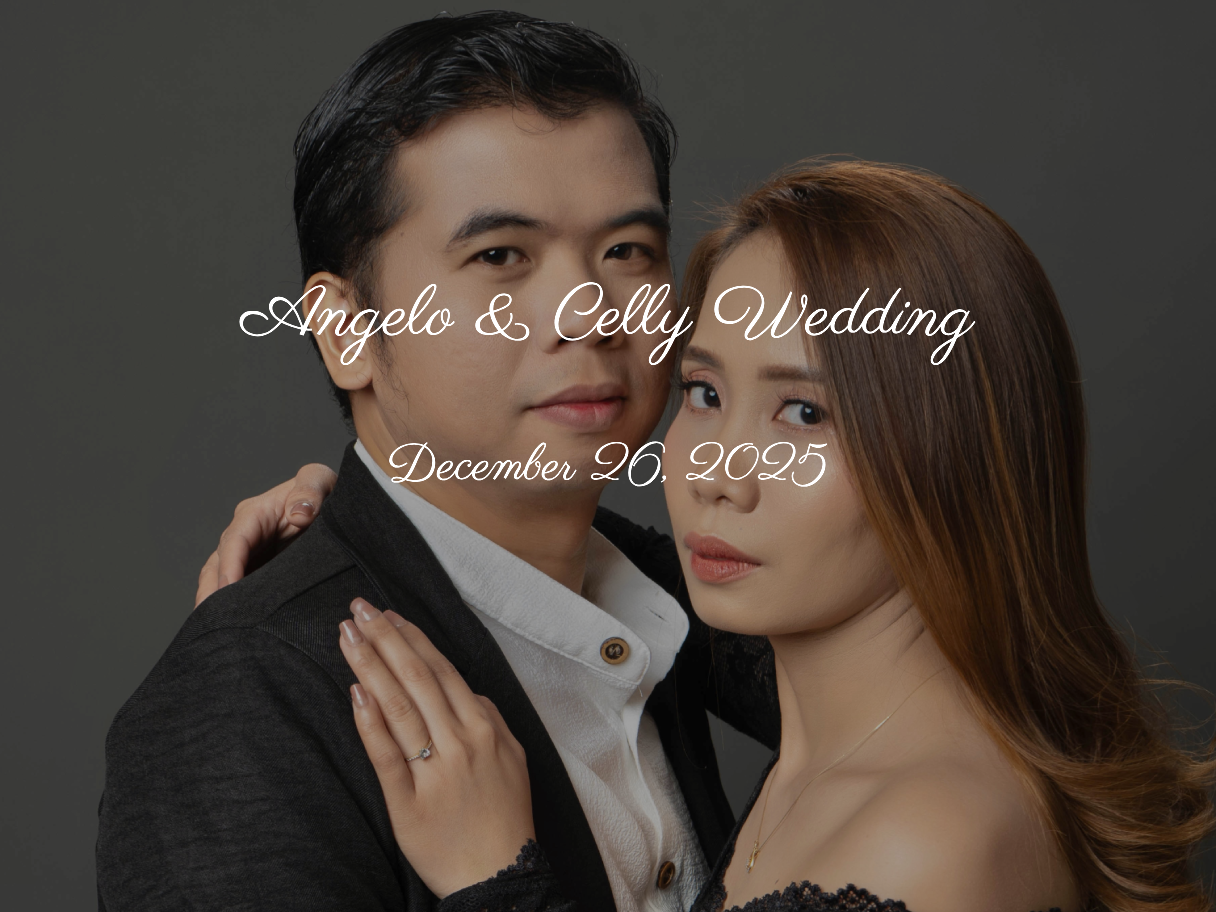
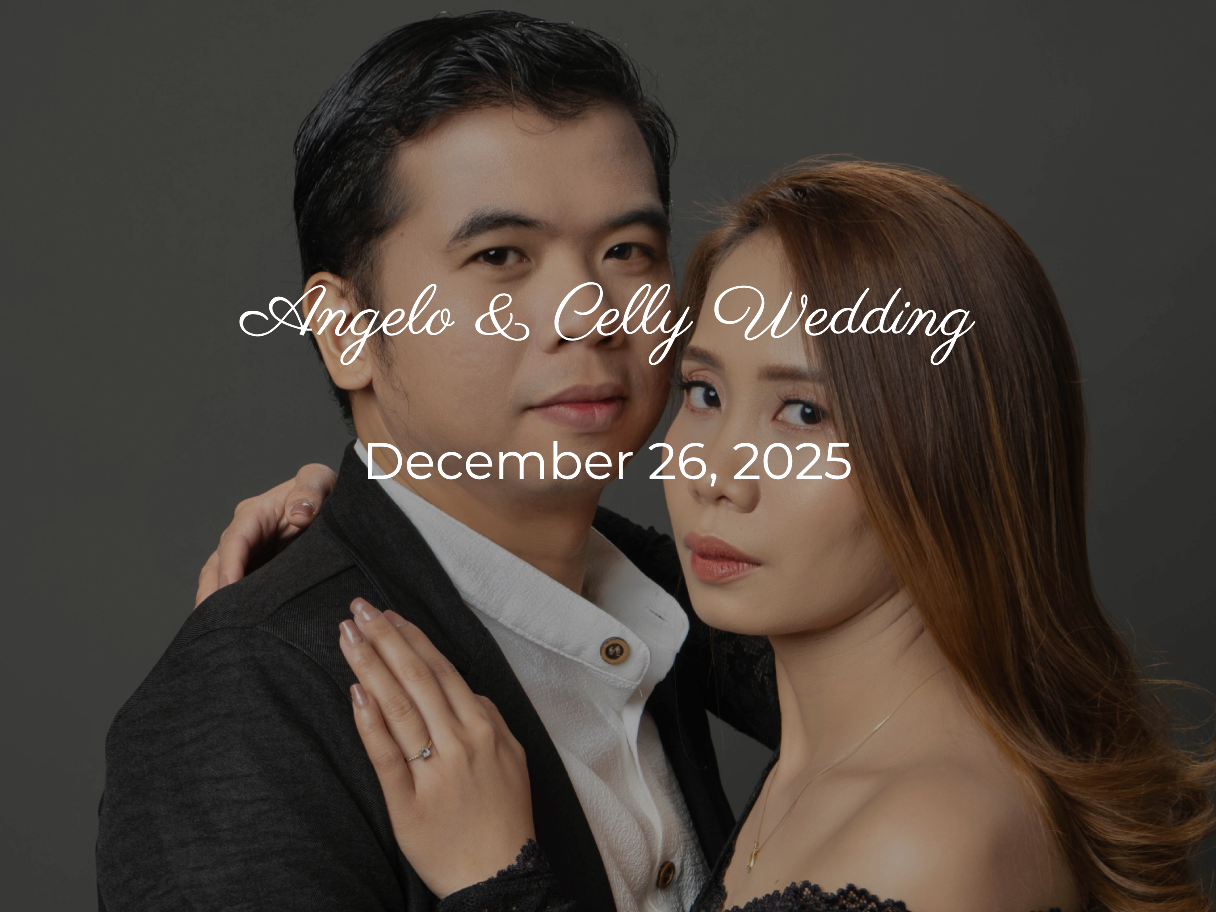
change image font

Changed region(s): [[0.2812, 0.4605, 0.7188, 0.5526]]

diff --git a/wedding_event/wedding_rsvp/templates/wedding_rsvp/base.html b/wedding_event/wedding_rsvp/templates/wedding_rsvp/base.html
@@ -25,7 +25,7 @@
     <meta property="og:image:width" content="400" />
     <meta property="og:image:height" content="300" />
     <meta property="og:type" content="website" />
-    <meta property="fb:app_id" content="1136627951944639" />
+    <!--<meta property="fb:app_id" content="1136627951944639" />-->
     <title>Wedding Page</title>
 
     <link rel="stylesheet" href="{% static 'wedding_rsvp/style.css' %}?v=2.0" />
